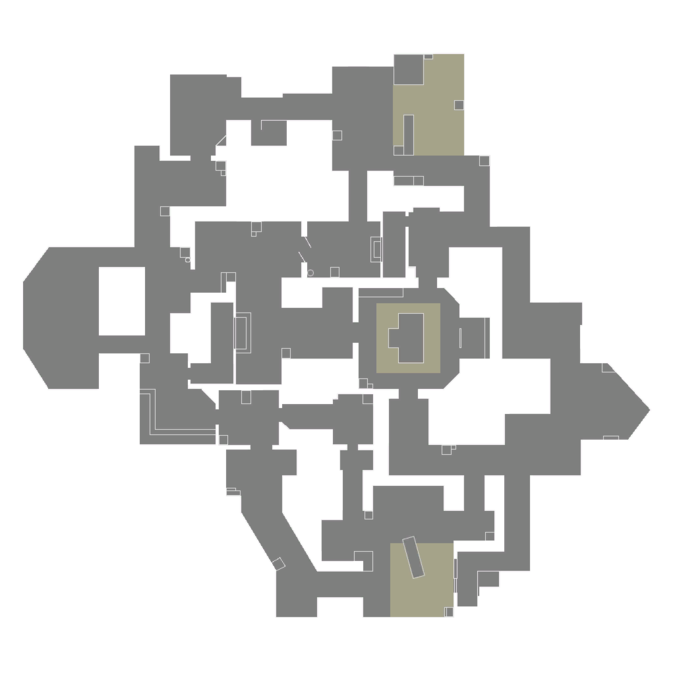
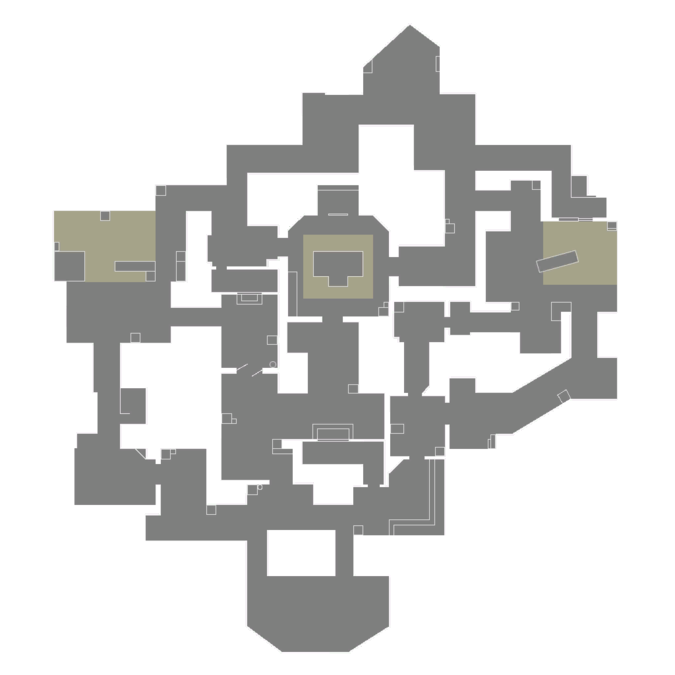
Rotate Haven so the attack spawns at the bottom
Turn the Haven minimap 90 degrees counter-clockwise so the attack spawn
sits at the bottom and the sites sit side by side above mid. Site
letters follow the defenders' view: A is the left site, B the middle,
and C the right. Haven's layout points are turned with the image and
the spawn points move to the floor on the spawn side.

Claude-Session: https://claude.ai/code/session_015tRPPjp1sBaXGLpLYqq7ek

diff --git a/src/map-layouts.ts b/src/map-layouts.ts
@@ -309,119 +309,119 @@ export const mapLayouts: Record<string, MapLayout> = {
   Haven: {
     map: 'Haven',
     attackSpawn: [
-      { x: 40.21, y: 83.23 },
-      { x: 41.99, y: 91.39 },
-      { x: 50, y: 88.43 },
-      { x: 58.01, y: 91.39 },
-      { x: 66, y: 89.5 },
+      { x: 44, y: 92 },
+      { x: 47, y: 88 },
+      { x: 52, y: 91 },
+      { x: 56, y: 87 },
+      { x: 57, y: 93 },
     ],
     mid: [
-      { x: 34, y: 49.5 },
-      { x: 42, y: 51.5 },
-      { x: 50, y: 49.5 },
-      { x: 58, y: 51.5 },
-      { x: 66, y: 49.5 },
+      { x: 49.5, y: 66 },
+      { x: 51.5, y: 58 },
+      { x: 49.5, y: 50 },
+      { x: 51.5, y: 42 },
+      { x: 49.5, y: 34 },
     ],
     flank: [
-      { x: 50.89, y: 73.89 },
-      { x: 52.09, y: 26.09 },
+      { x: 73.89, y: 49.11 },
+      { x: 26.09, y: 47.91 },
     ],
     siteNames: ['A', 'B', 'C'],
     sites: {
       A: {
-        plant: { x: 62.6, y: 86.5 },
+        plant: { x: 16.3, y: 35.5 },
         entry: [
-          { x: 52.36, y: 75.22 },
-          { x: 55.19, y: 67.66 },
-          { x: 63.65, y: 72.11 },
+          { x: 31.53, y: 35.52 },
+          { x: 34.72, y: 43.77 },
+          { x: 26.79, y: 46.54 },
         ],
         lanes: [
-          { x: 39.58, y: 62.71 },
-          { x: 66.04, y: 53.57 },
+          { x: 49.39, y: 34.5 },
+          { x: 38.32, y: 60.22 },
         ],
-        lurk: [{ x: 80.71, y: 70.33 }],
+        lurk: [{ x: 14.95, y: 58.87 }],
         holds: [
-          { x: 68.27, y: 84.54 },
-          { x: 56.93, y: 88.46 },
-          { x: 65.73, y: 91.39 },
-          { x: 70.62, y: 89.76 },
-          { x: 57.27, y: 91.39 },
+          { x: 13.93, y: 41.01 },
+          { x: 18.69, y: 31.31 },
+          { x: 9.87, y: 32.73 },
+          { x: 8.01, y: 40.06 },
+          { x: 13.06, y: 31.31 },
         ],
         post: [
-          { x: 70.16, y: 83.89 },
-          { x: 55.04, y: 89.11 },
-          { x: 65.73, y: 91.39 },
-          { x: 59.99, y: 78.94 },
+          { x: 13.14, y: 42.85 },
+          { x: 19.44, y: 31.31 },
+          { x: 8.95, y: 32.34 },
+          { x: 23.65, y: 38.66 },
         ],
         retake: [
-          { x: 65.73, y: 72.11 },
-          { x: 50.89, y: 76.85 },
-          { x: 57.72, y: 70.33 },
-          { x: 59.66, y: 77.99 },
+          { x: 25.08, y: 47.99 },
+          { x: 31.4, y: 33.29 },
+          { x: 31.92, y: 42.22 },
+          { x: 24.57, y: 39.06 },
         ],
       },
       B: {
-        plant: { x: 60.7, y: 50.5 },
+        plant: { x: 50.5, y: 39.3 },
         entry: [
-          { x: 46.44, y: 53.12 },
-          { x: 40.72, y: 49.57 },
-          { x: 47.77, y: 43.92 },
+          { x: 53.12, y: 53.56 },
+          { x: 49.57, y: 59.28 },
+          { x: 43.92, y: 52.23 },
         ],
         lanes: [
-          { x: 30.08, y: 63.08 },
-          { x: 31.39, y: 35.11 },
+          { x: 63.08, y: 69.92 },
+          { x: 35.11, y: 68.61 },
         ],
-        lurk: [{ x: 53.74, y: 28.15 }],
+        lurk: [{ x: 28.15, y: 46.26 }],
         holds: [
-          { x: 60.98, y: 44.51 },
-          { x: 60.42, y: 56.49 },
-          { x: 67.69, y: 50.83 },
-          { x: 66.91, y: 43.92 },
-          { x: 66.02, y: 57.27 },
+          { x: 44.51, y: 39.02 },
+          { x: 56.49, y: 39.58 },
+          { x: 50.83, y: 32.31 },
+          { x: 43.92, y: 33.09 },
+          { x: 57.27, y: 33.98 },
         ],
         post: [
-          { x: 61.13, y: 42.73 },
-          { x: 60.33, y: 58.49 },
-          { x: 68.69, y: 50.87 },
-          { x: 52.71, y: 50.13 },
+          { x: 42.73, y: 38.87 },
+          { x: 58.49, y: 39.67 },
+          { x: 50.87, y: 31.31 },
+          { x: 50.13, y: 47.29 },
         ],
         retake: [
-          { x: 48.07, y: 41.1 },
-          { x: 47.33, y: 59.94 },
-          { x: 43.72, y: 49.71 },
-          { x: 51.71, y: 50.08 },
+          { x: 41.1, y: 51.93 },
+          { x: 59.94, y: 52.67 },
+          { x: 49.71, y: 56.28 },
+          { x: 50.08, y: 48.29 },
         ],
       },
       C: {
-        plant: { x: 64.5, y: 16.3 },
+        plant: { x: 86.5, y: 37.4 },
         entry: [
-          { x: 64.48, y: 31.53 },
-          { x: 56.23, y: 34.72 },
-          { x: 53.46, y: 26.79 },
+          { x: 75.22, y: 47.64 },
+          { x: 67.66, y: 44.81 },
+          { x: 72.11, y: 36.35 },
         ],
         lanes: [
-          { x: 65.5, y: 49.39 },
-          { x: 39.78, y: 38.32 },
+          { x: 62.71, y: 60.42 },
+          { x: 53.57, y: 33.96 },
         ],
-        lurk: [{ x: 41.13, y: 14.95 }],
+        lurk: [{ x: 70.33, y: 19.29 }],
         holds: [
-          { x: 58.99, y: 13.93 },
-          { x: 68.69, y: 18.69 },
-          { x: 67.27, y: 9.87 },
-          { x: 59.94, y: 8.01 },
-          { x: 68.69, y: 13.06 },
+          { x: 84.54, y: 31.73 },
+          { x: 88.46, y: 43.07 },
+          { x: 91.39, y: 34.27 },
+          { x: 89.76, y: 29.38 },
+          { x: 91.39, y: 42.73 },
         ],
         post: [
-          { x: 57.15, y: 13.14 },
-          { x: 68.69, y: 19.44 },
-          { x: 67.66, y: 8.95 },
-          { x: 61.34, y: 23.65 },
+          { x: 83.89, y: 29.84 },
+          { x: 89.11, y: 44.96 },
+          { x: 91.39, y: 34.27 },
+          { x: 78.94, y: 40.01 },
         ],
         retake: [
-          { x: 52.01, y: 25.08 },
-          { x: 66.71, y: 31.4 },
-          { x: 57.78, y: 31.92 },
-          { x: 60.94, y: 24.57 },
+          { x: 72.11, y: 34.27 },
+          { x: 76.85, y: 49.11 },
+          { x: 70.33, y: 42.28 },
+          { x: 77.99, y: 40.34 },
         ],
       },
     },

diff --git a/specs/round-tactics.md b/specs/round-tactics.md
@@ -32,7 +32,7 @@ Each opening is chosen per round from the map and round number, so the same roun
 - `a-main`, `b-main` and `c-main` put the attackers at the entry of that site. The pivot is visible when the hit site is another one.
 - `default` spreads them out, as their attack formation has them.
 
-Checked in the browser on Haven. Site letters on Haven put B in the middle, with A at the bottom and C at the top. On round 2, a `b-main` opening scouts from B's entry and hits B, with no pivot. On round 3, a `c-main` opening scouts from C's entry at the top, then pivots down to A at the bottom at contact. That round had no plant, so the hit site alternated to A.
+Checked in the browser on Haven, after the 90° turn. The attack spawns at the bottom, and the sites sit side by side above mid: A on the left, B in the middle, C on the right, as seen from the defenders. On round 3 (no plant, so the hit site alternates to A), a `c-main` opening scouts from C's entry on the right, then pivots left onto A at contact.
 
 ## Formations
 
